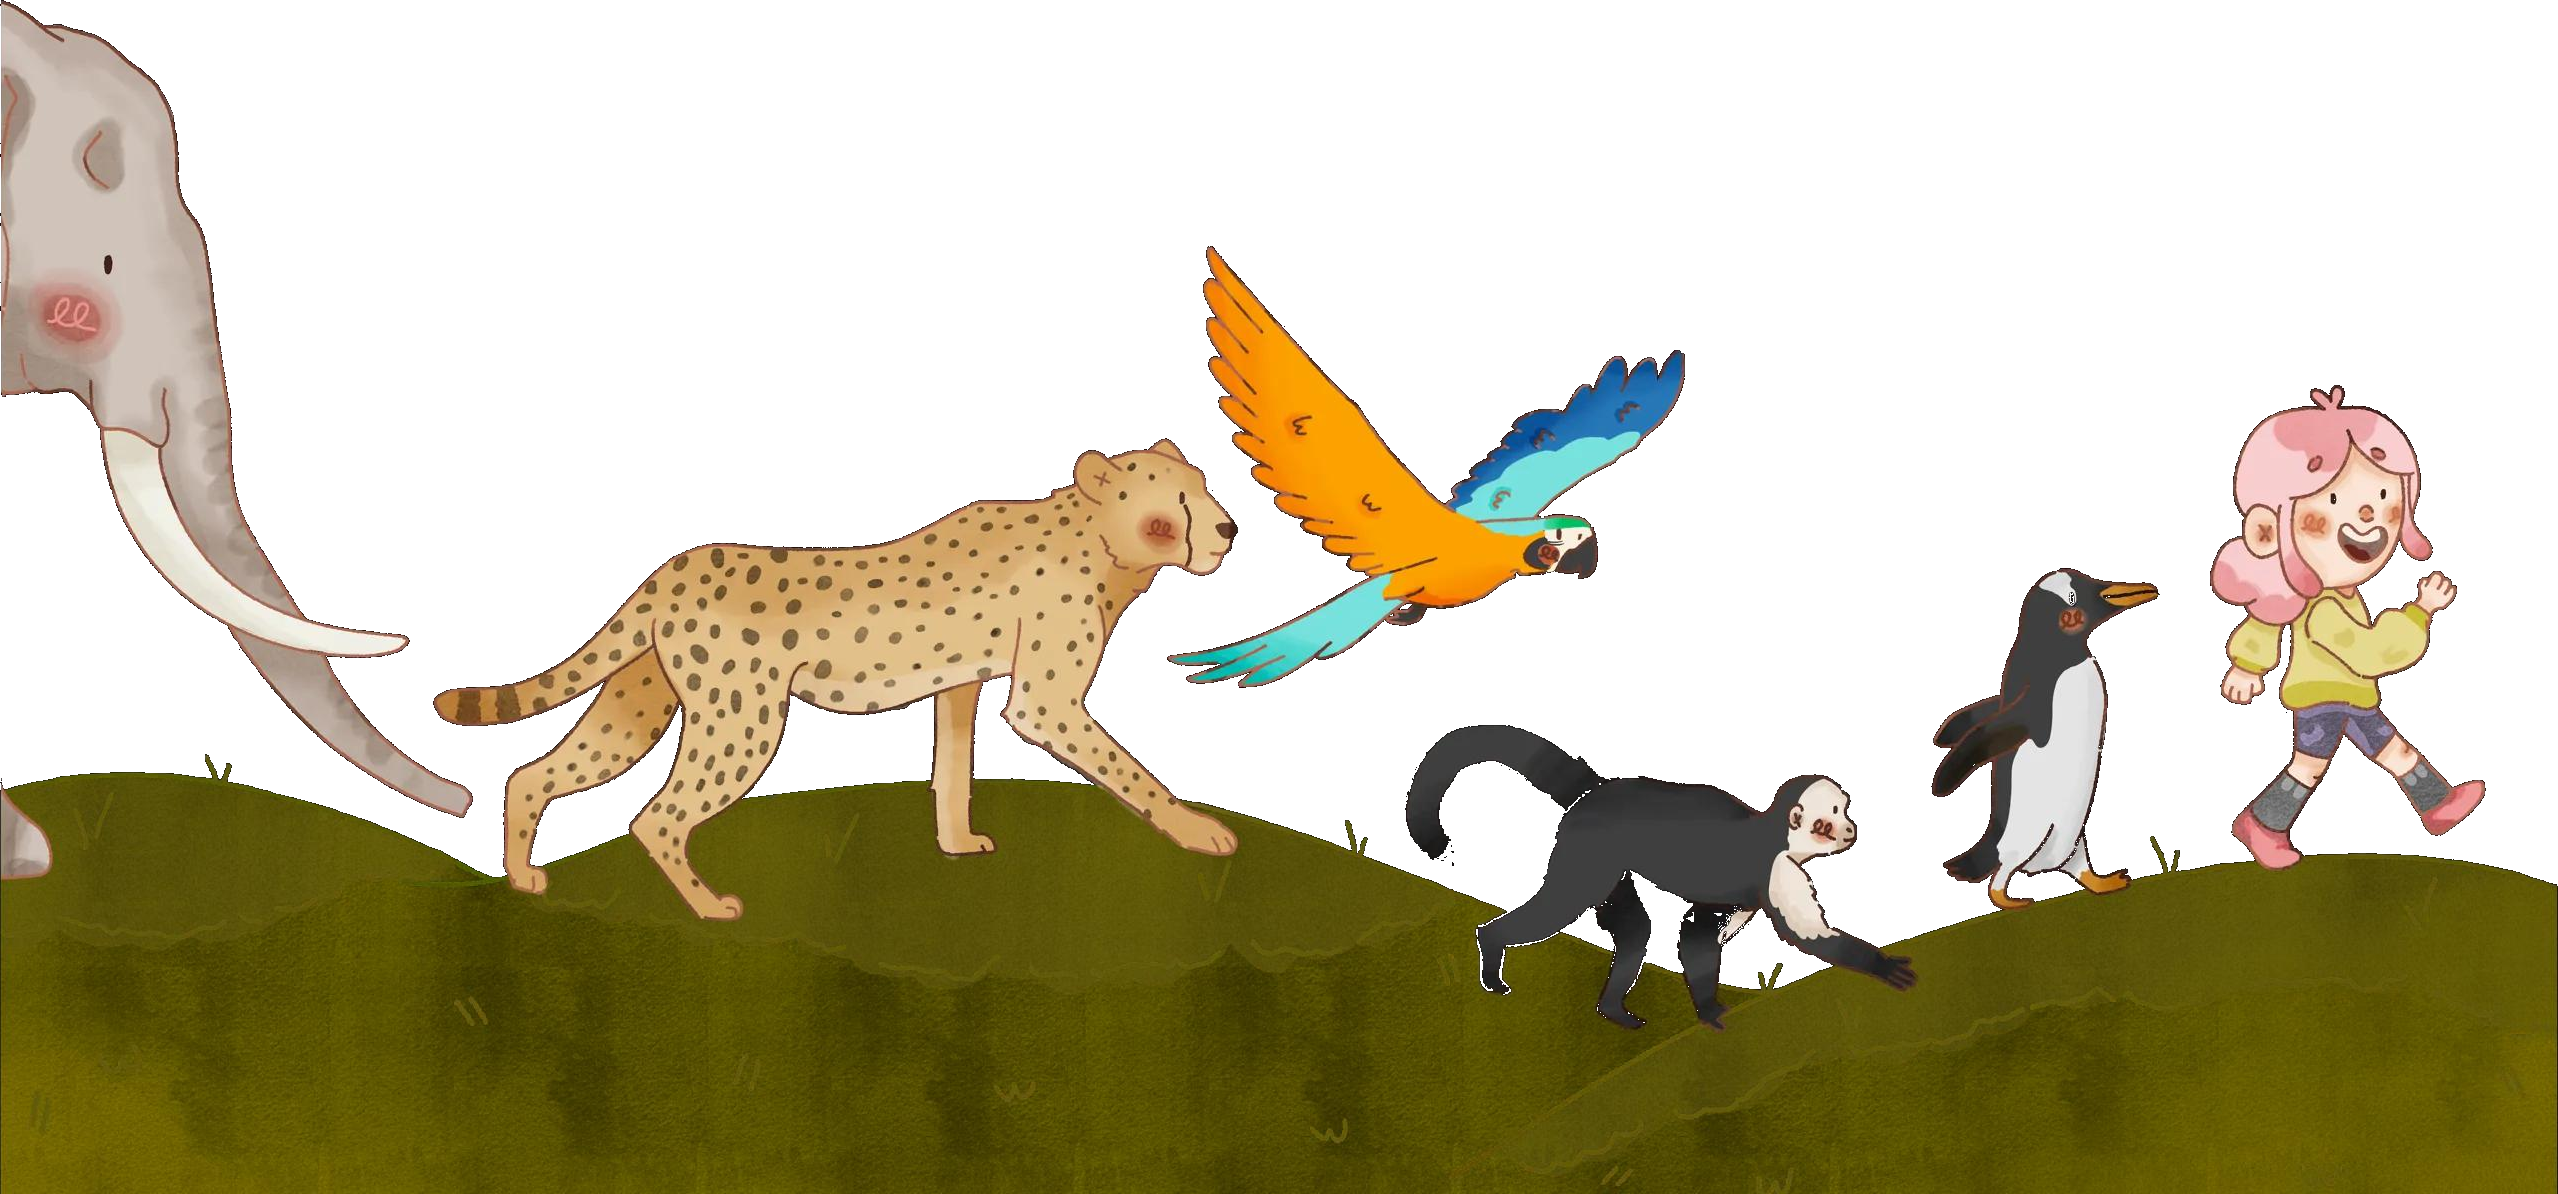
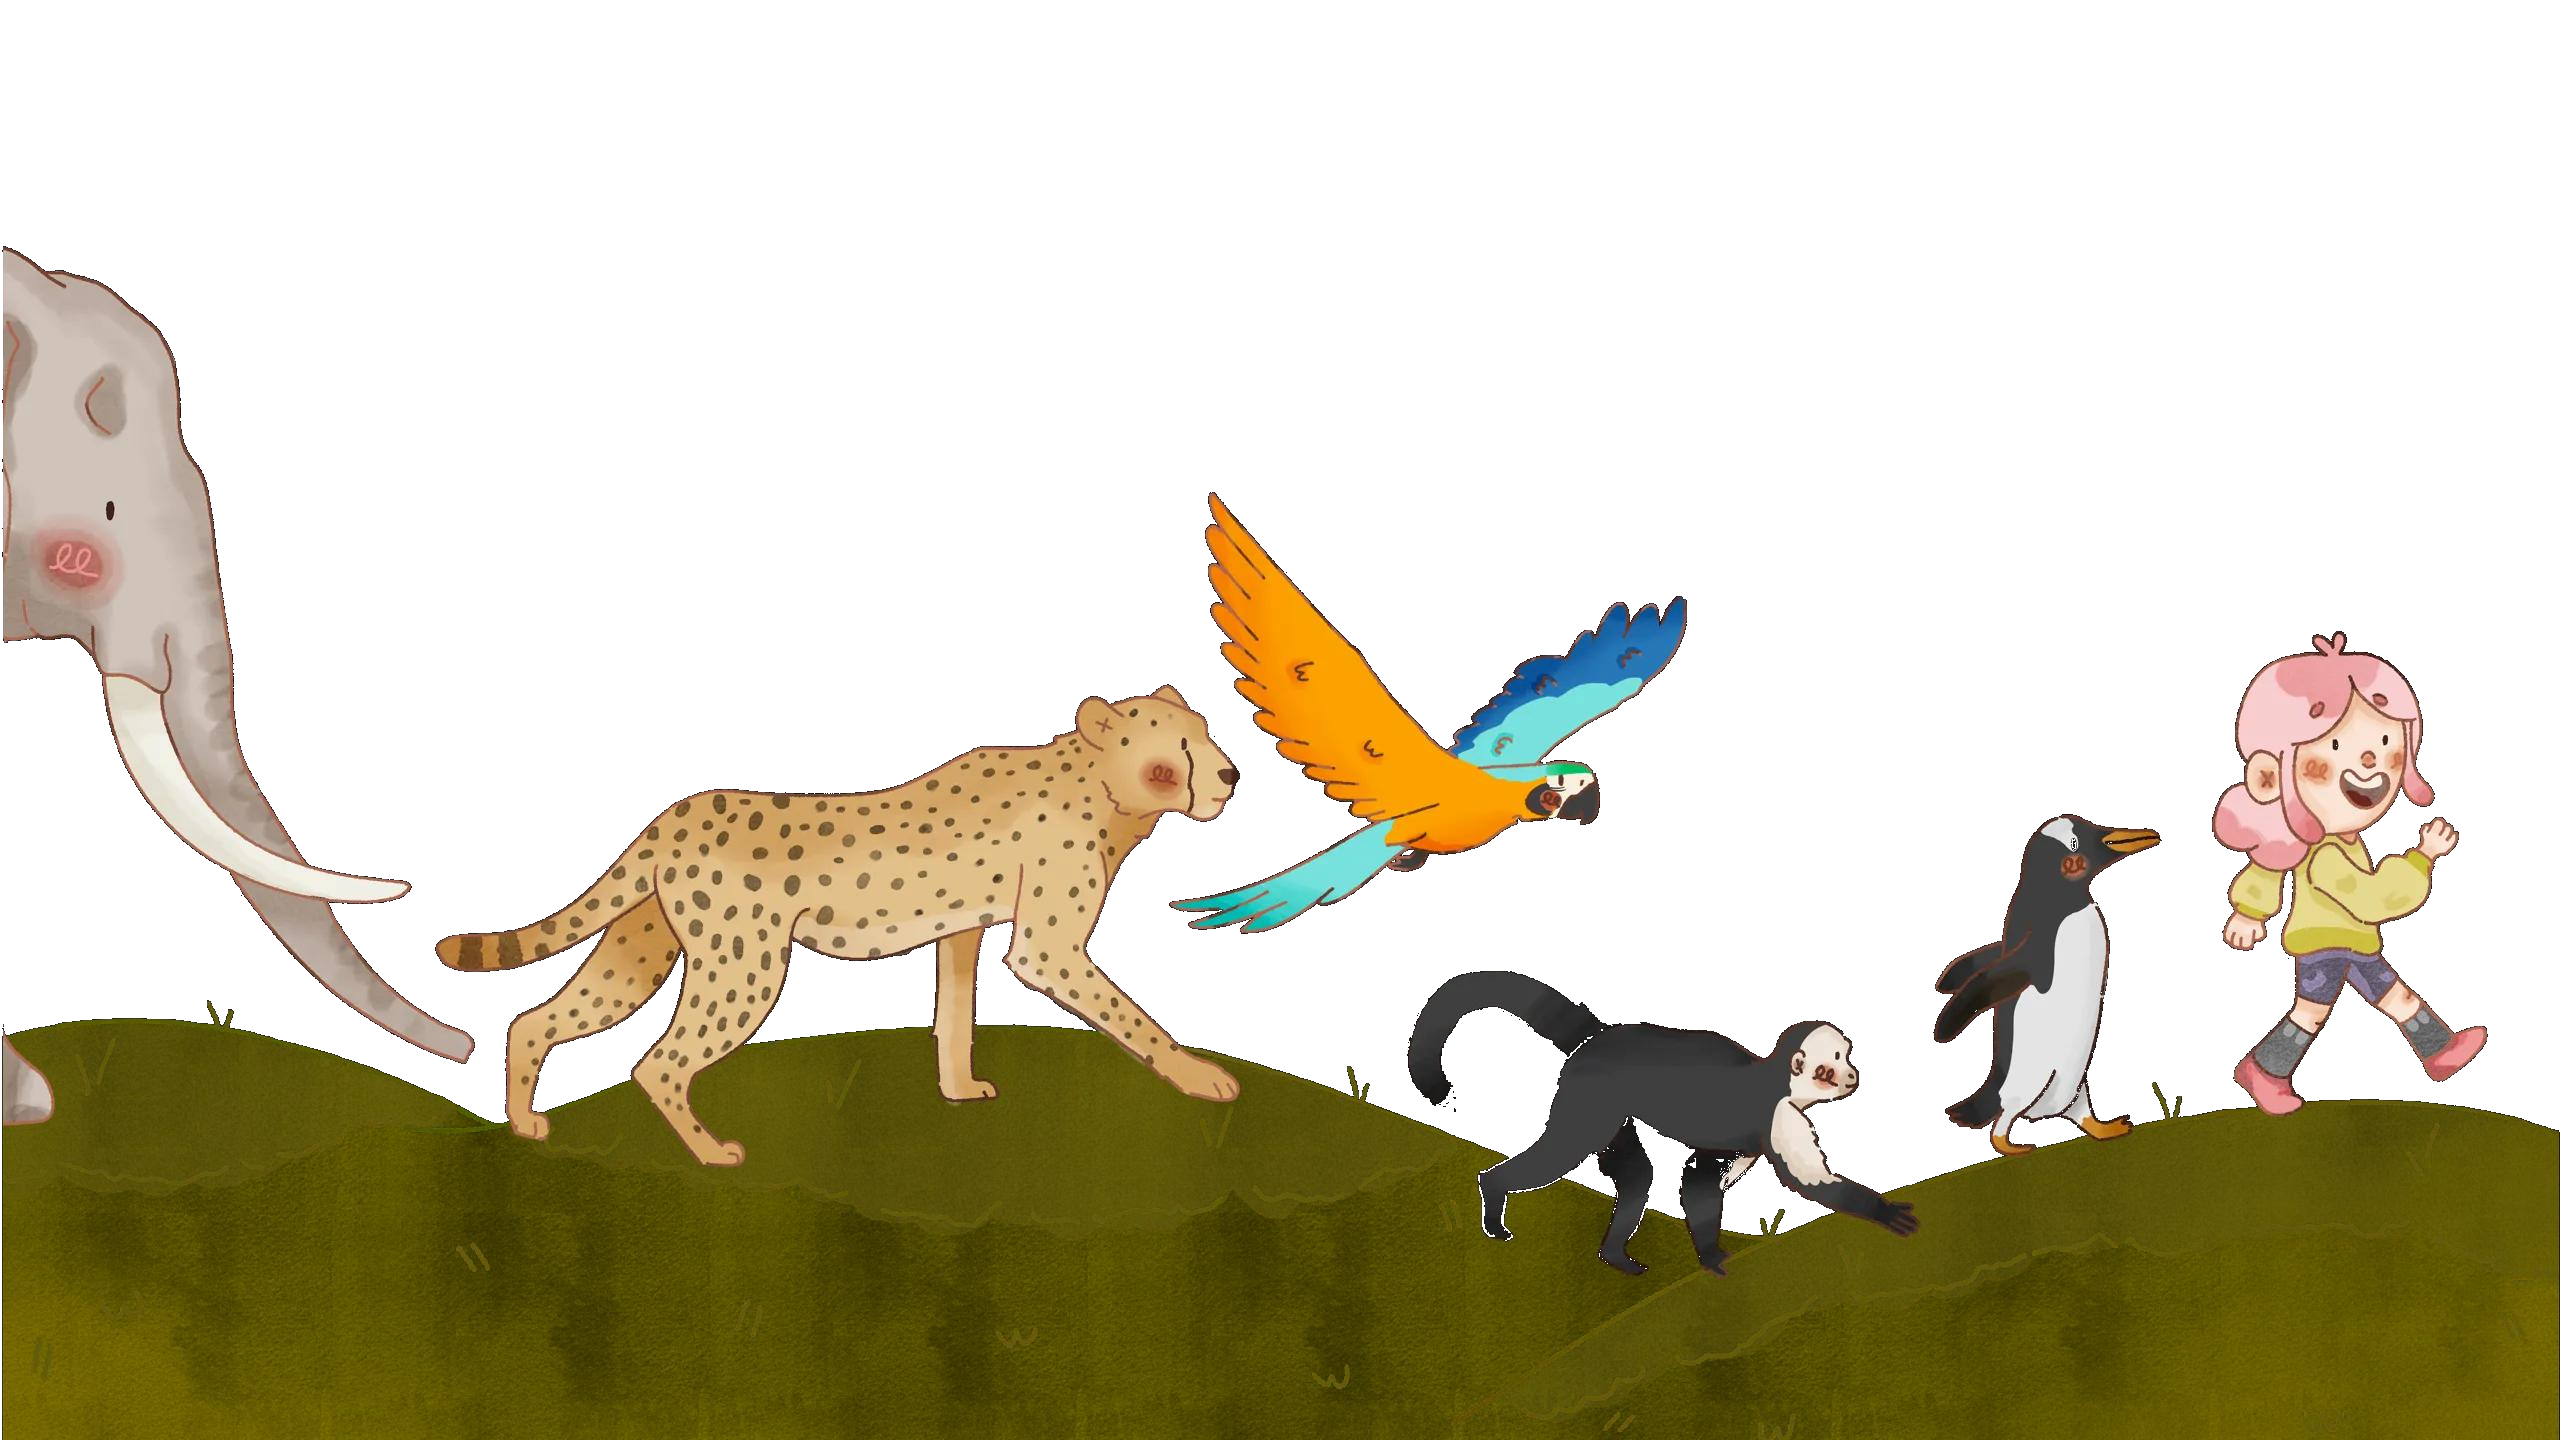
Add clouds to hero and switch shop to 2-up carousel with arrows
- Hero gets a clouds layer aligned with the transparent banner sky
- Hero text nudged a bit higher (top 4%) to sit among the clouds
- Shop preview now shows 2 prints desktop / 1 mobile with scroll-snap
- Prev/next arrows scroll the track by one card via vanilla JS
- Banner re-exported without trim so its aspect matches the clouds (2560x1440)

https://claude.ai/code/session_01DDBWr7UWHzcAP855t2GGFR

Changed region(s): [[0.0, 0.0, 1.0, 0.8987], [0.4633, 0.8057, 0.4941, 0.8367], [0.3088, 0.8057, 0.3397, 0.8367]]

diff --git a/styles.css b/styles.css
@@ -336,6 +336,21 @@ em {
   padding-top: 1rem;
 }
 
+.hero-stage {
+  position: relative;
+}
+
+.hero-clouds {
+  position: absolute;
+  inset: 0;
+  width: 100%;
+  height: 100%;
+  object-fit: cover;
+  z-index: 0;
+  pointer-events: none;
+  user-select: none;
+}
+
 .hero-banner {
   display: block;
   width: 100%;
@@ -346,7 +361,7 @@ em {
 
 .hero-text {
   position: absolute;
-  top: 6%;
+  top: 4%;
   left: 50%;
   transform: translateX(-50%);
   width: min(48rem, 92%);
@@ -450,12 +465,24 @@ em {
 
 .shop-cards {
   display: grid;
-  grid-template-columns: repeat(4, 1fr);
+  grid-auto-flow: column;
+  grid-auto-columns: calc(50% - 0.75rem);
   gap: 1.5rem;
+  overflow-x: auto;
+  scroll-snap-type: x mandatory;
+  scroll-behavior: smooth;
+  scrollbar-width: none;
+  -ms-overflow-style: none;
+  padding-bottom: 0.25rem;
+  min-width: 0;
 }
+
+.shop-cards::-webkit-scrollbar { display: none; }
 
 .shop-card {
   text-align: left;
+  scroll-snap-align: start;
+  min-width: 0;
 }
 
 .shop-image {
@@ -971,7 +998,6 @@ em {
   .about-photo img { max-width: 16rem; }
   .contact-methods { flex-direction: column; }
   .contact-card { width: 100%; }
-  .shop-cards { grid-template-columns: repeat(2, 1fr); }
   .shop-arrow { width: 2.4rem; height: 2.4rem; font-size: 1.2rem; }
   .footer-inner { justify-content: center; text-align: center; }
 
@@ -1010,5 +1036,8 @@ em {
   .logo { padding: 0.4rem 1rem; }
   .logo img { height: 1.8rem; }
   .footer-inner { flex-direction: column; gap: 1rem; text-align: center; }
-  .shop-cards { grid-template-columns: 1fr; }
+}
+
+@media (max-width: 720px) {
+  .shop-cards { grid-auto-columns: 100%; }
 }

diff --git a/index.html b/index.html
@@ -45,10 +45,13 @@
   </header>
 
   <section class="hero">
-    <img class="hero-banner" src="photo/banner-no-bg.png" alt="Une fillette suivie d'un éléphant, un guépard, un perroquet, un singe et un pingouin — illustration de Dana">
     <div class="hero-text">
       <h1>Illustratrice jeunesse</h1>
       <p class="hero-subtitle">Passionnée, je donne vie à vos idées dans un monde doux inspiré par la nature et les animaux</p>
+    </div>
+    <div class="hero-stage">
+      <img class="hero-clouds" src="photo/clouds.png" alt="" aria-hidden="true">
+      <img class="hero-banner" src="photo/banner-no-bg.png" alt="Une fillette suivie d'un éléphant, un guépard, un perroquet, un singe et un pingouin — illustration de Dana">
     </div>
   </section>
 
@@ -251,6 +254,22 @@
       </ul>
     </div>
   </footer>
+
+  <script>
+    document.querySelectorAll('.shop-carousel').forEach(c => {
+      const track = c.querySelector('.shop-cards');
+      if (!track) return;
+      const step = () => {
+        const card = track.querySelector('.shop-card');
+        if (!card) return track.clientWidth;
+        const cs = getComputedStyle(track);
+        const gap = parseFloat(cs.columnGap || cs.gap || 0);
+        return card.offsetWidth + gap;
+      };
+      c.querySelector('.shop-arrow-prev')?.addEventListener('click', () => track.scrollBy({left: -step(), behavior: 'smooth'}));
+      c.querySelector('.shop-arrow-next')?.addEventListener('click', () => track.scrollBy({left: step(), behavior: 'smooth'}));
+    });
+  </script>
 
 </body>
 </html>
